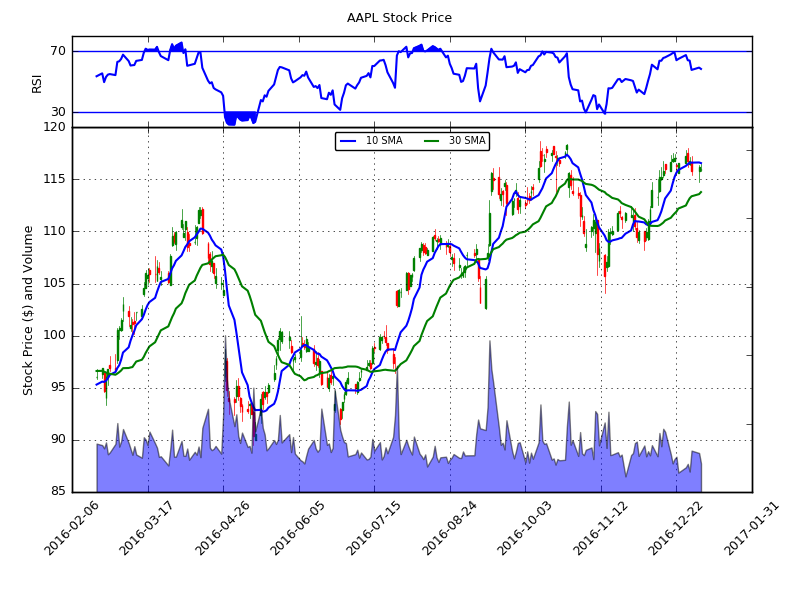
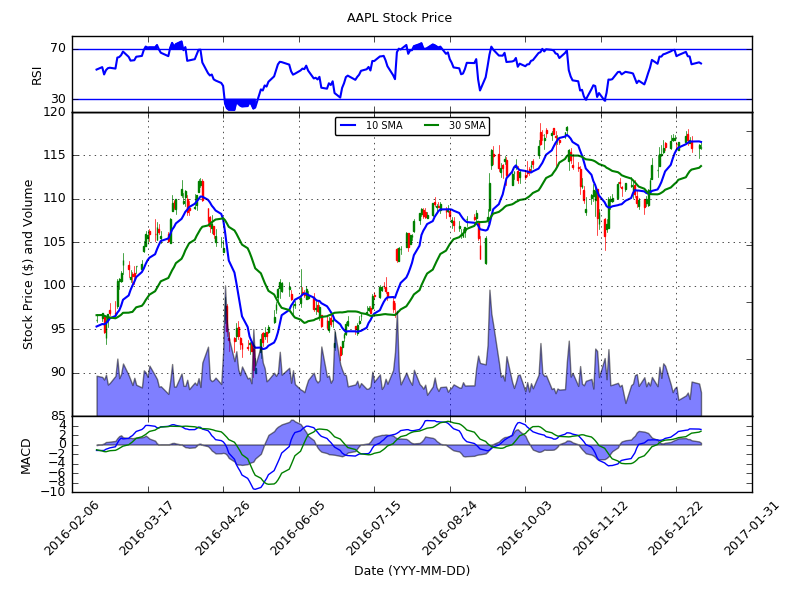
26 and 12 ema

diff --git a/technical-analysis/oneDayOHLC/sma_ema_vol_ohlc_rsi.py b/technical-analysis/oneDayOHLC/sma_ema_vol_ohlc_rsi.py
@@ -136,7 +136,19 @@ def graphData(stock, MA1, MA2):
 		d = mplot.subplot2grid((6,4), (5,0), sharex=a, rowspan=1, colspan=4)
 		d.tick_params(axis='x')
 		d.tick_params(axis='y')
+		nslow = 26
+		nfast = 12
+		nema = 9
 
+		emaslow, emafast, macd = computeMACD(closePrice)
+		ema9 = ema(macd, nema)
+
+		d.plot(date[-SP:], macd[-SP:])
+		d.plot(date[-SP:], ema9[-SP:])
+		d.fill_between(date[-SP:], macd[-SP:]-ema9[-SP:], 0, alpha=0.5)
+		mplot.gca().yaxis.set_major_locator(mticker.MaxNLocator(prune='upper'))
+		mplot.ylabel('MACD')
+		
 		# rotating angles by 90 degrees to fit properly
 		for label in d.xaxis.get_ticklabels():
 			label.set_rotation(45)
